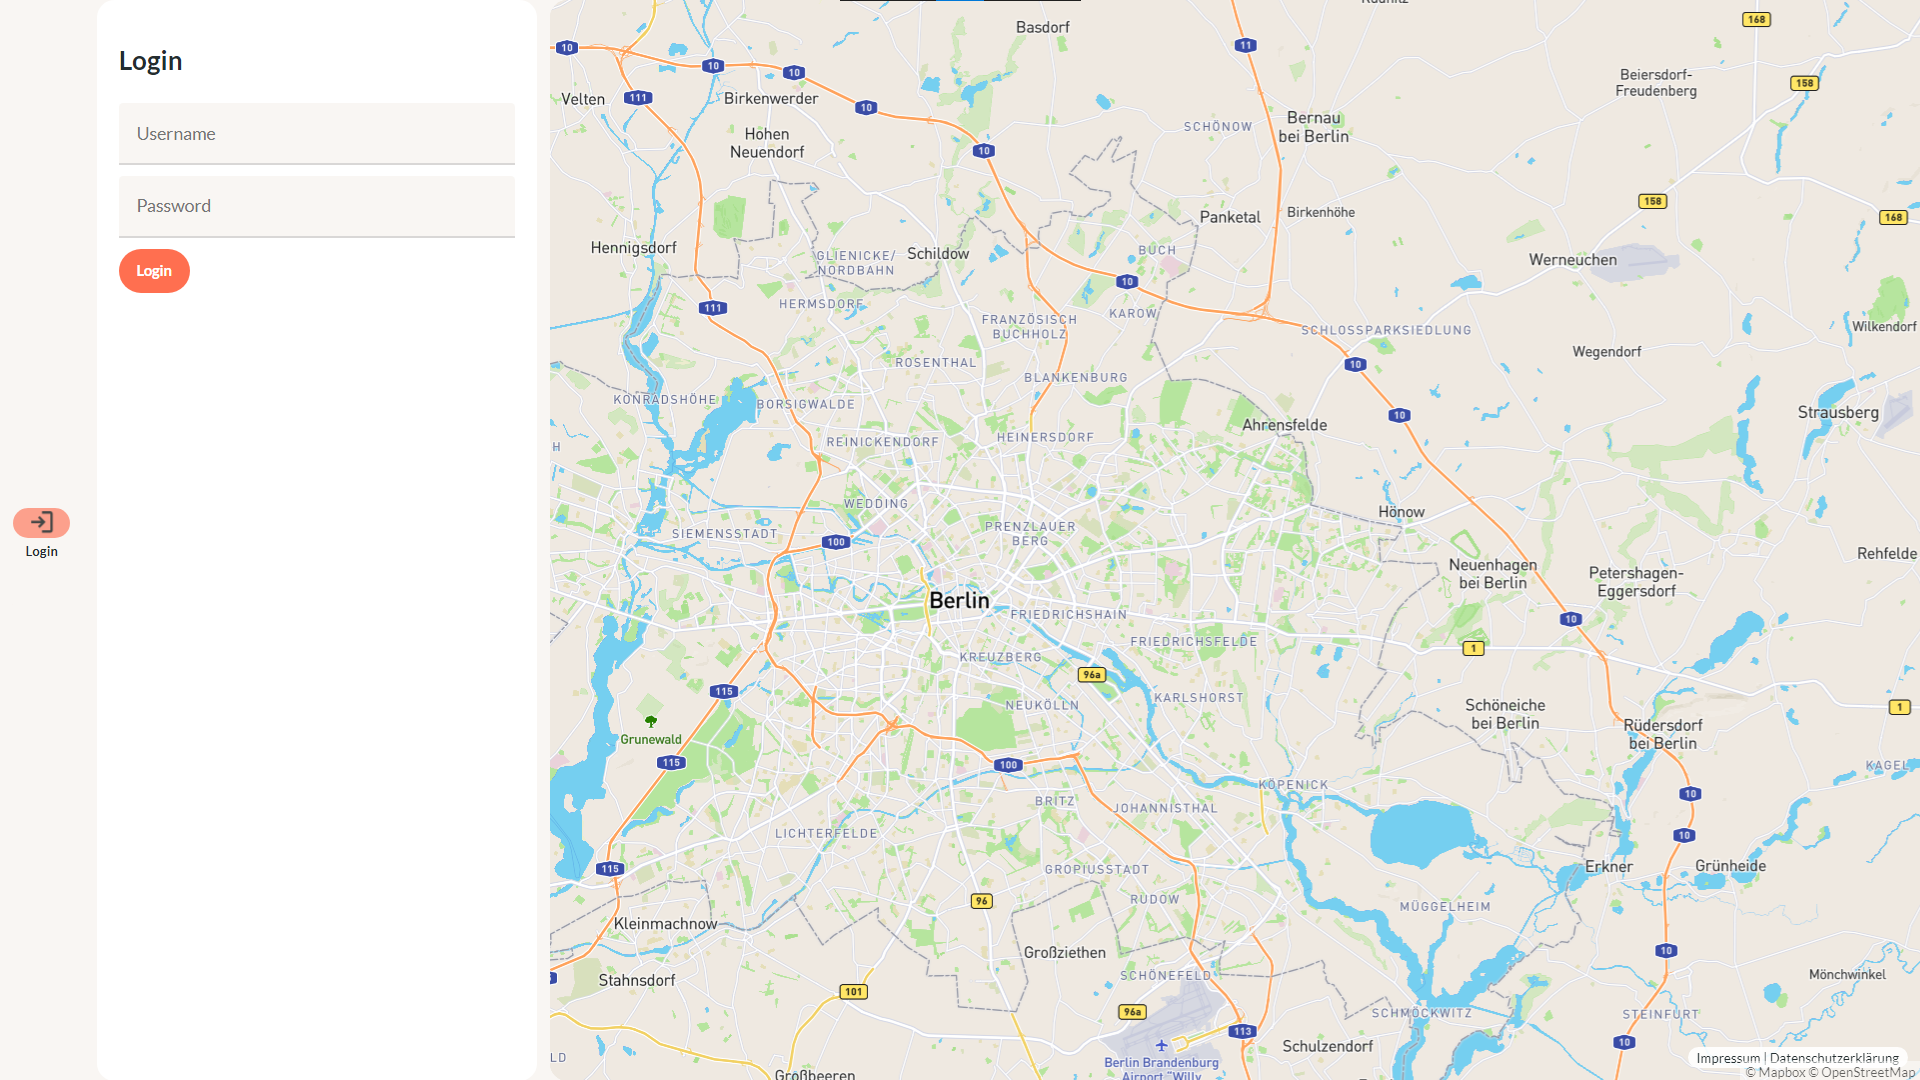
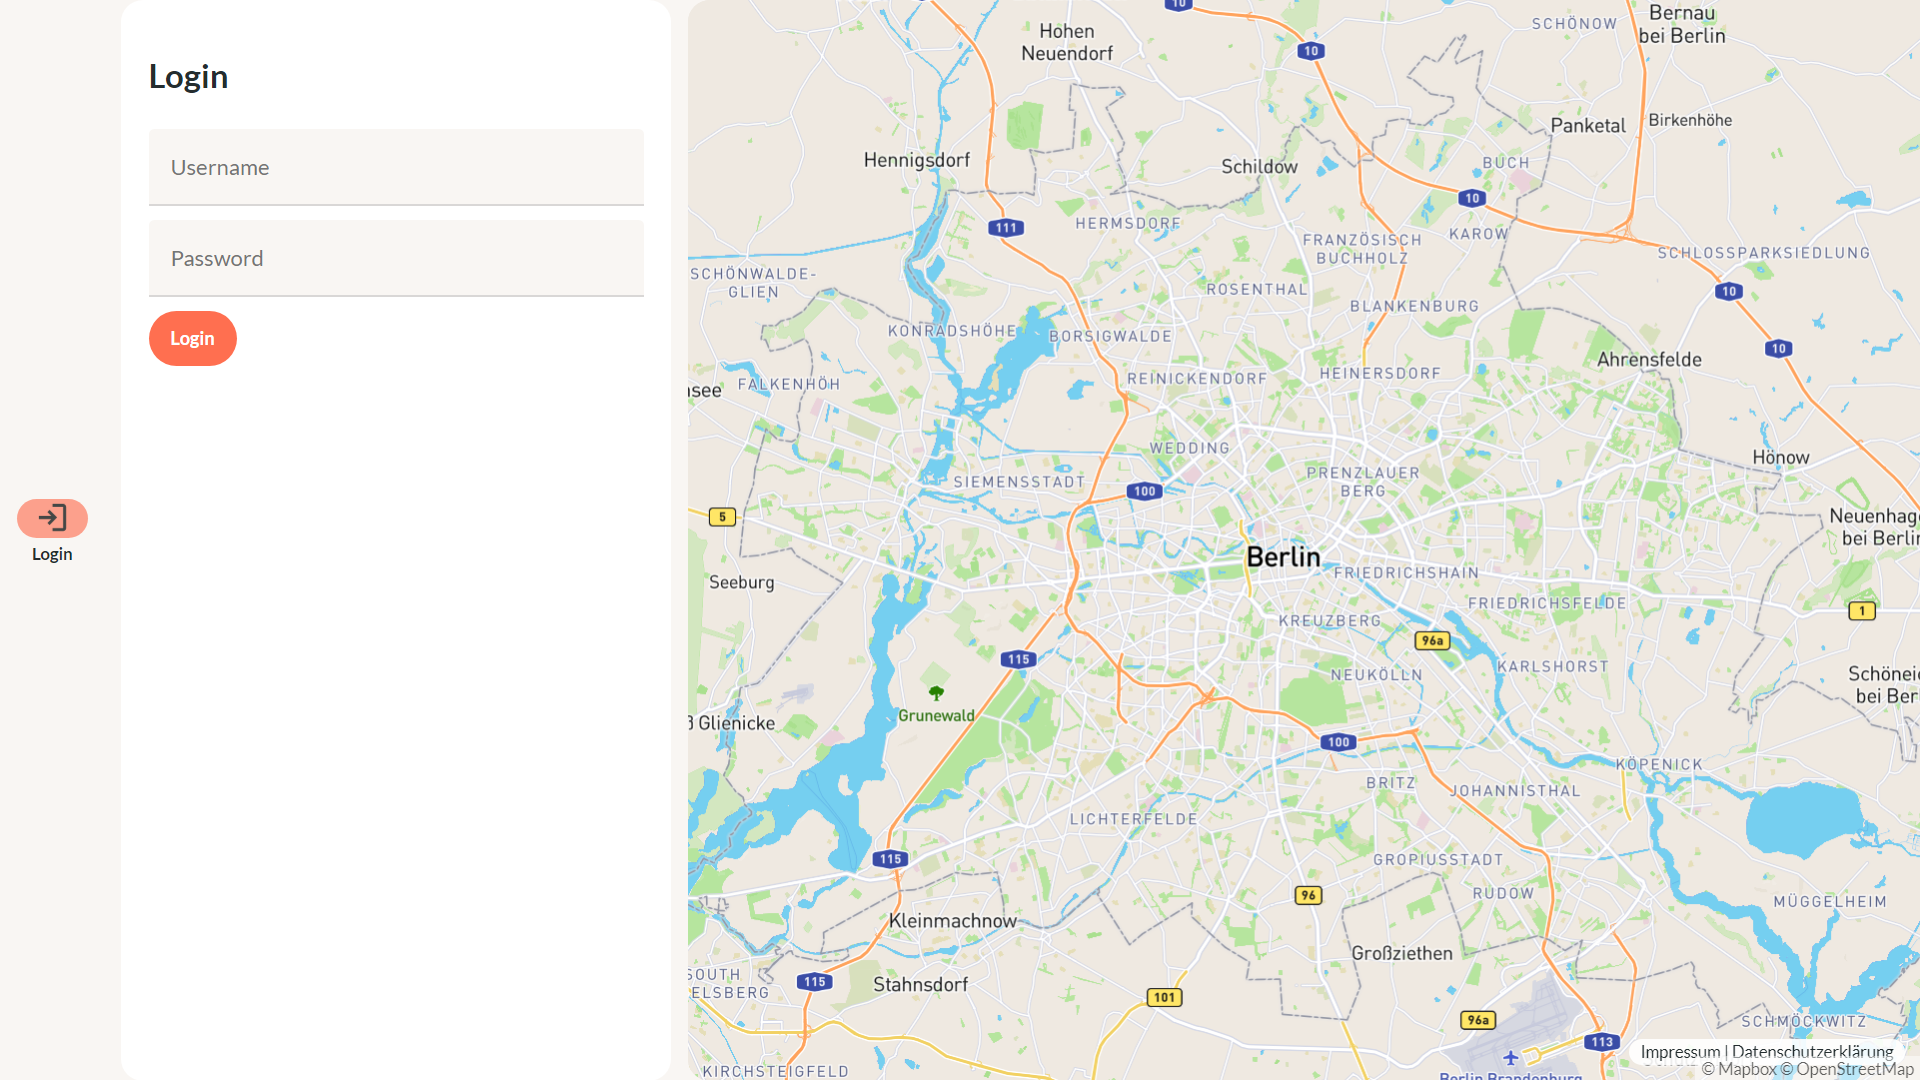
Update README.md
Update README.md

Update README.md

...

diff --git a/README.md b/README.md
@@ -2,6 +2,33 @@
 
 "Standortdienst" is a single page application that integrates Mapbox to provide a user-friendly interface for managing and displaying locations on a map of Berlin. The application doesn't use a framework, but dynamically updates the user interface through direct DOM manipulations.
 
+## Demo
+
+[Live Demo](https://location-service-berlin.netlify.app/)
+
+## Screenshots
+
+### Places
+![Places or Locations List](/screenshots/places.png)
+*A list view of all the places*
+
+### Location Details 
+![Location Details View](/screenshots/detail.png)
+*Detailed information for each location can be viewed and edited*
+
+### Main Map View
+![Main Map View](/screenshots/map.png)
+*The main map view showcases the interactive map with markers for each location*
+
+### Add Location Screen
+![Add Location Screen](/screenshots/add.png)
+*Screen for adding new locations*
+
+### Login Screen
+![Login Screen](/screenshots/login.png)
+*The login screen*
+
+
 ## Key Features
 
 - User Authentication: login and logout functionality.
